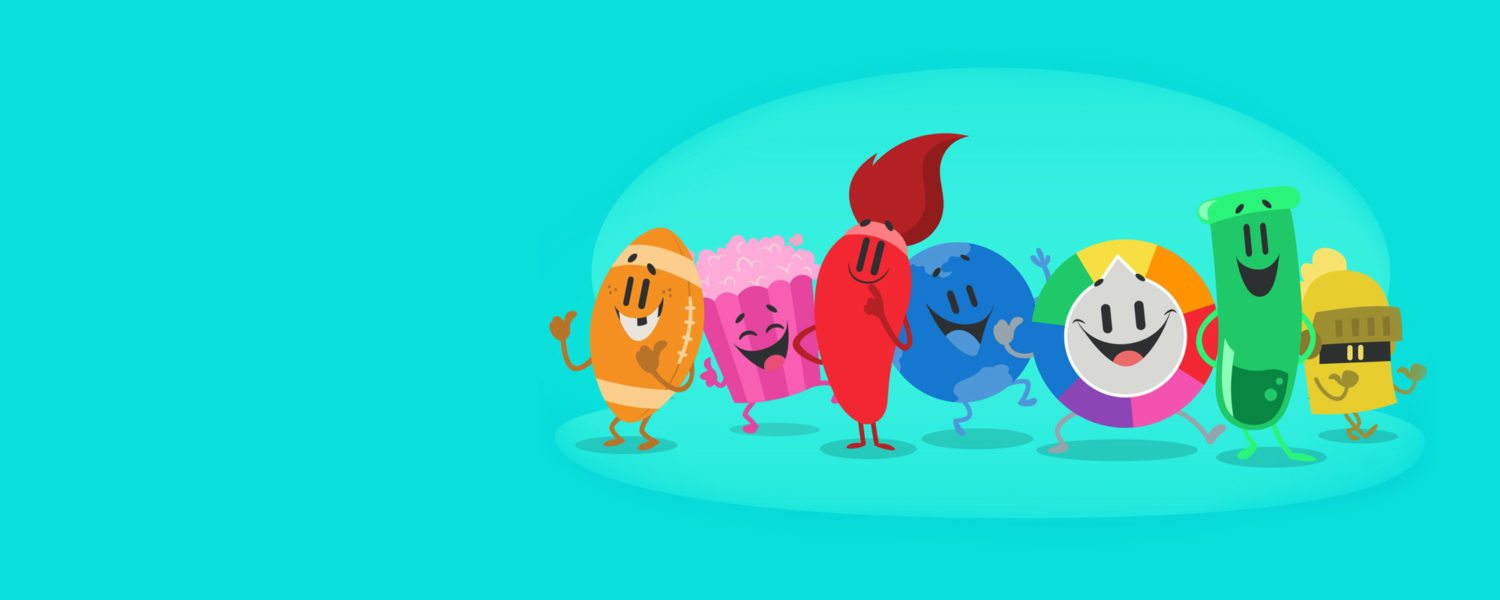
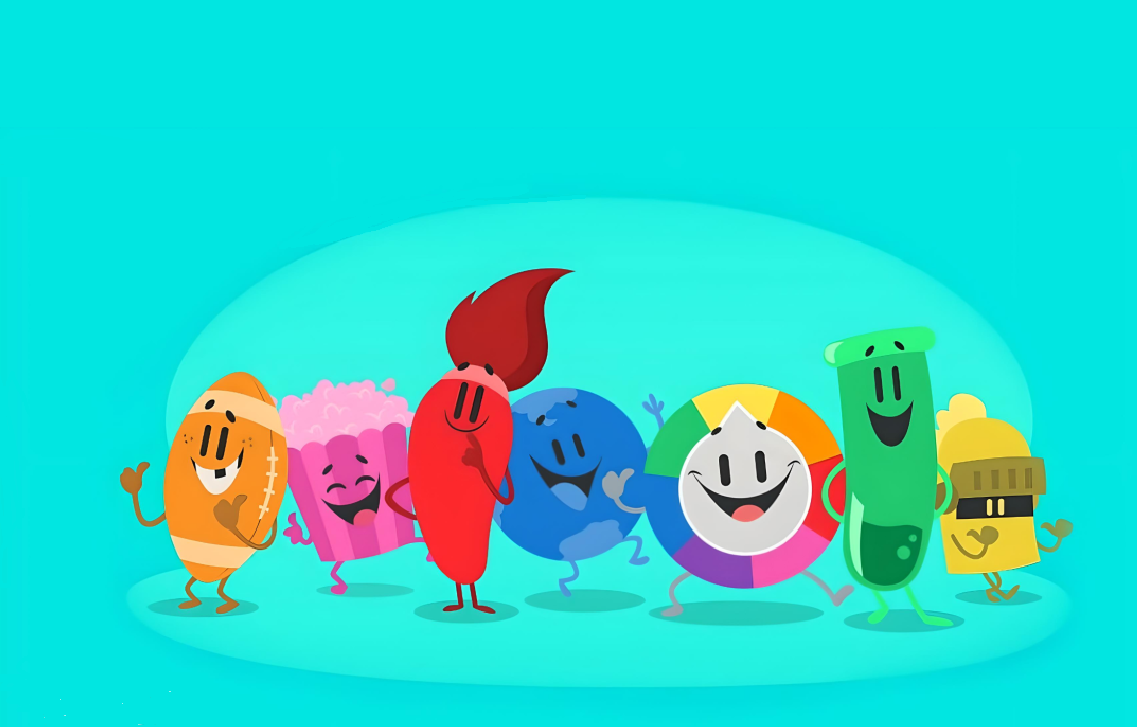
imagenes mejoradas

diff --git a/wwwroot/css/site.css b/wwwroot/css/site.css
@@ -3,7 +3,7 @@
   padding: 0px;
 }
 body{
-  background-image: url(/Fotos/Fondo.jpg);
+  background-image: url(/Fotos/fondoMejor.png);
   width: 100%;
   height: 500px;
   background-repeat: no-repeat;
